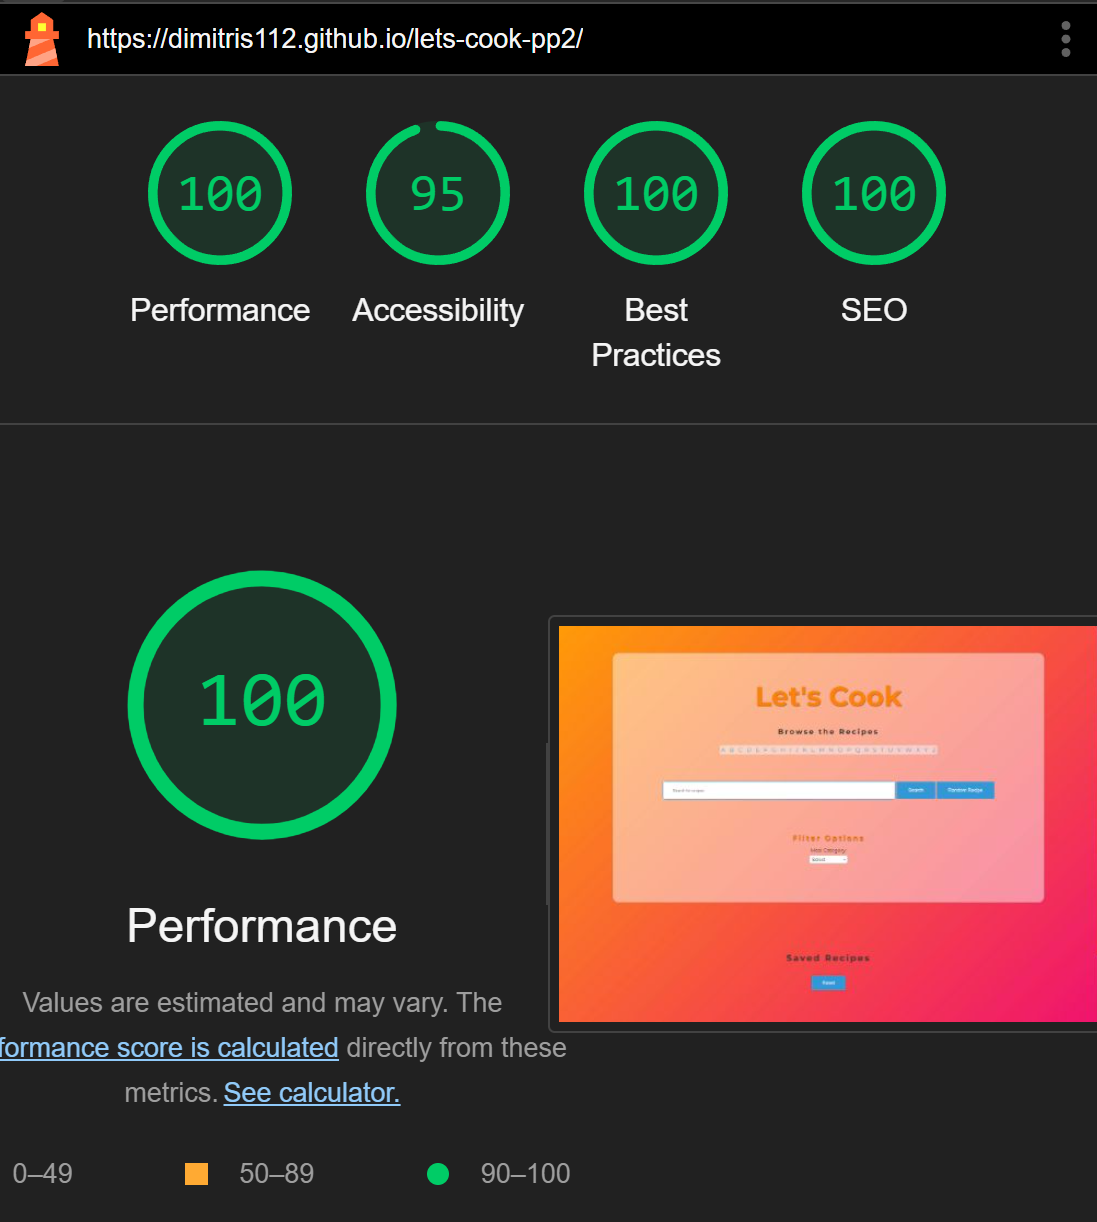
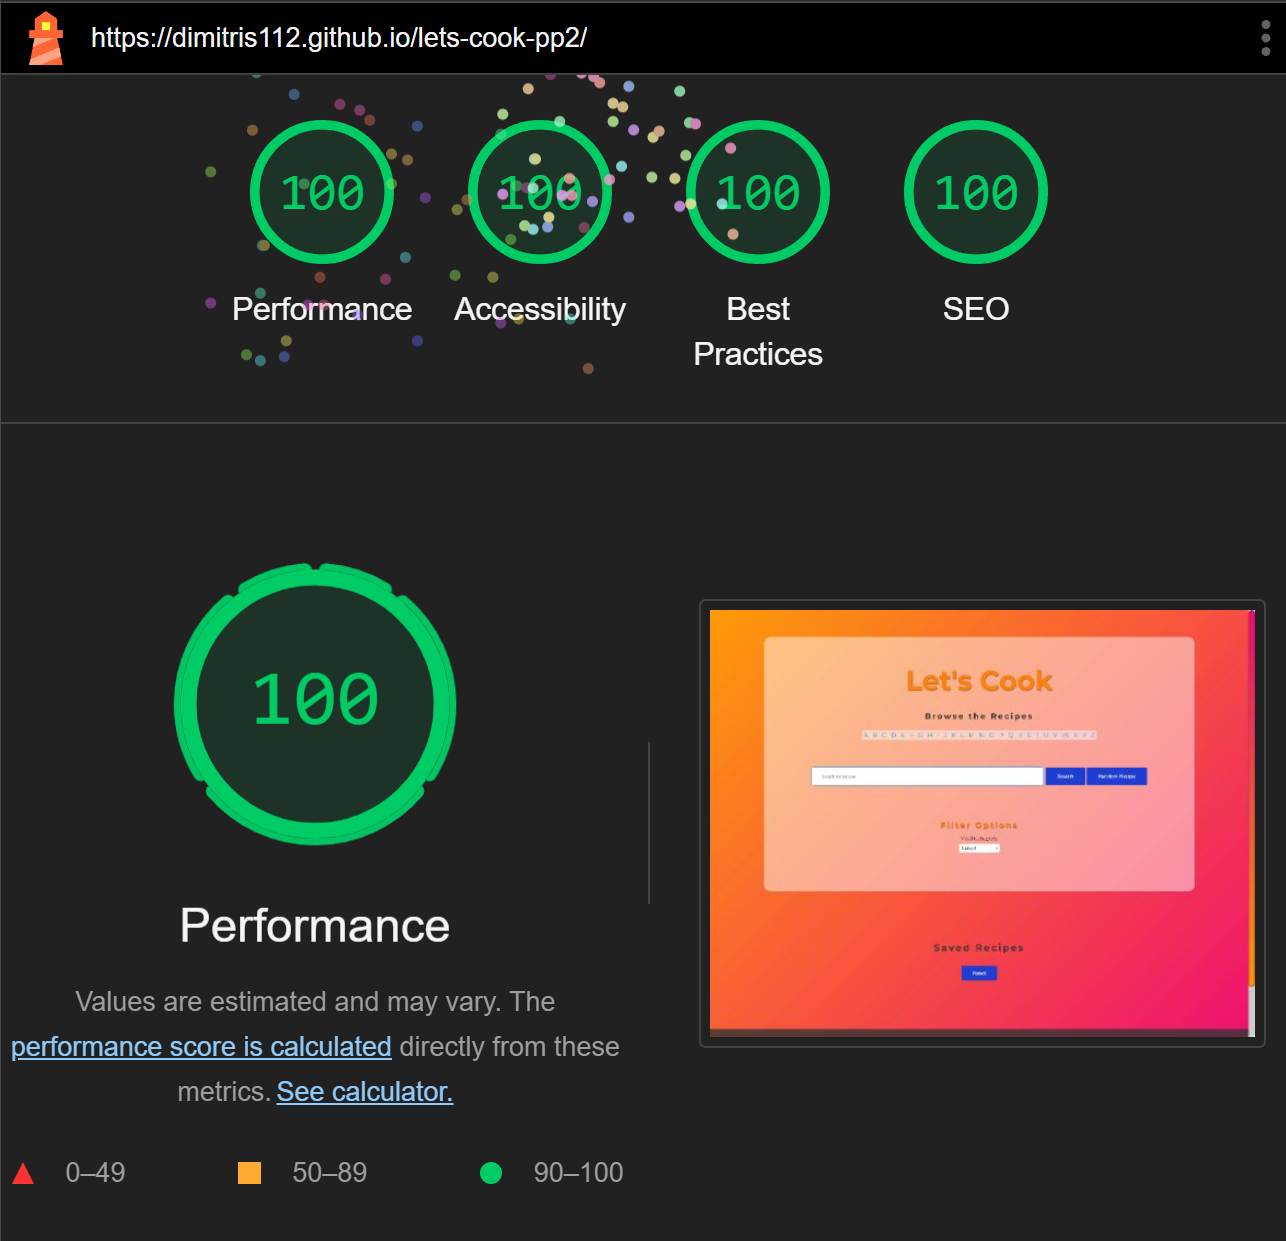
Added the new metrics_after png and which hit a score of full 100 ! Adjusted the readme test cases too

diff --git a/README.md b/README.md
@@ -184,7 +184,7 @@ Go to the website -> [Live link](https://dimitris112.github.io/lets-cook-pp2/ "t
 
       - ### Metrics 
       
-        Using the Lighthouse metrics score on Chrome's devtools, on incognito mode managed to increase the accessibility score from **87** to **95**. The rest of the metrics remain the same as **100**.
+        Using the Lighthouse metrics score on Chrome's devtools, on incognito mode managed to increase the accessibility score from **87** to **100**. The rest of the metrics remain the same as **100**.
 
       - #### Before ####
 
